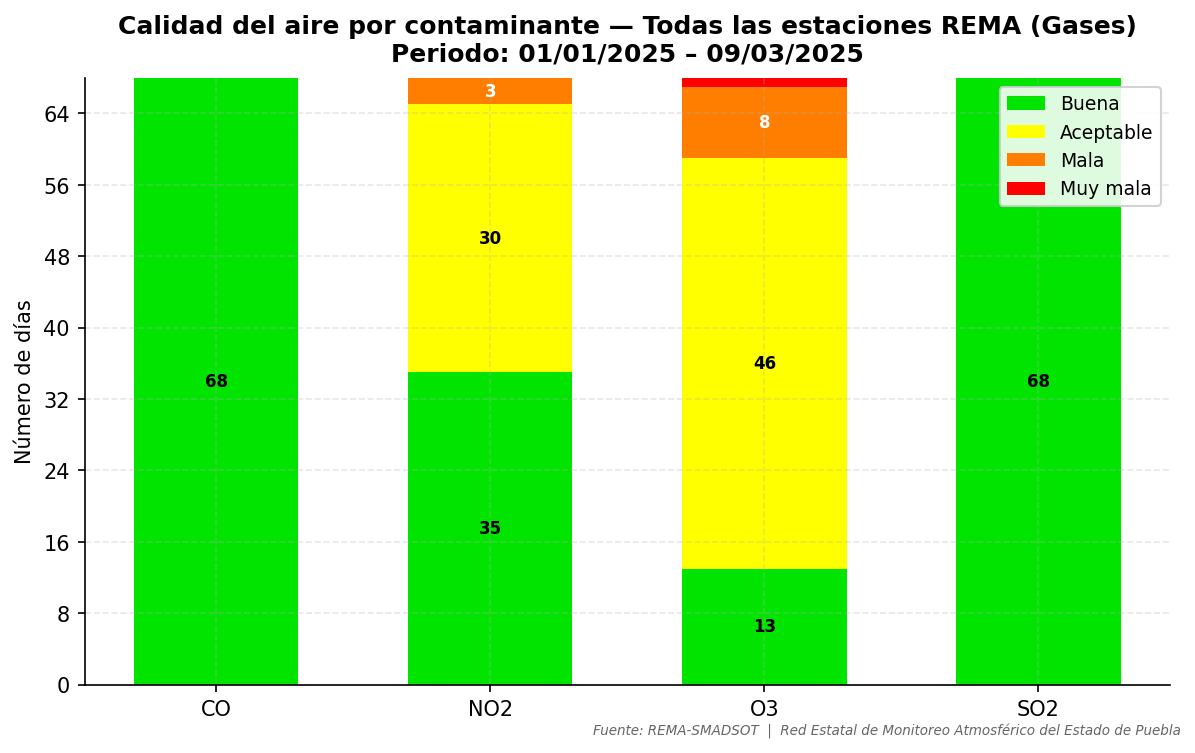
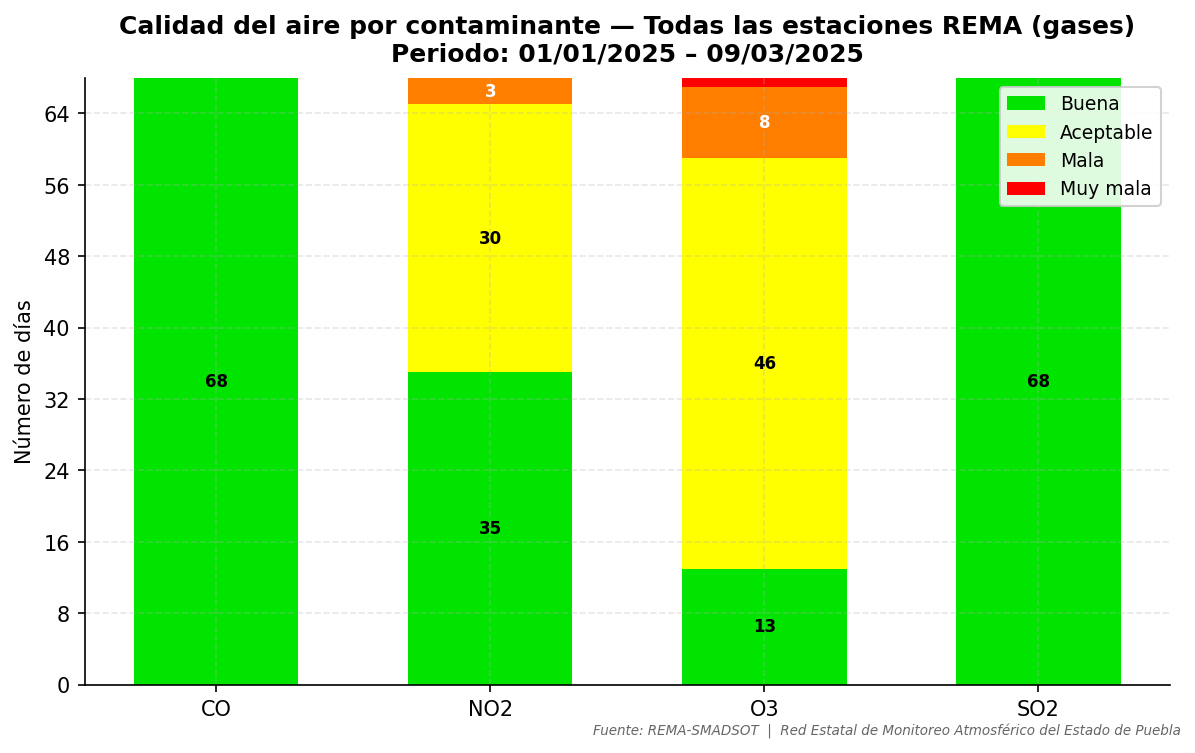
graficas 14 ~ 25

Changed region(s): [[0.5264, 0.0, 0.9598, 0.0611], [0.0929, 0.0305, 0.4954, 0.0611]]

diff --git a/graficas.py b/graficas.py
@@ -793,7 +793,249 @@ def g13_perfil_horario(df_ias_h, cont_list, ests, nombre_zona, periodo, tag, gru
     ax.grid(True, alpha=0.3)
     pie_fig(fig)
     guardar(fig, f"13_perfil_horario_{grupo}_{tag}")
-    
+
+# ============================================================================
+# GRÁFICAS ADICIONALES (G14 - G25)
+# ============================================================================
+
+# G14 — Evolución del ICA (línea temporal) - por zona y contaminante
+def g14_evolucion_ica_linea(df_ica, cont, ests, nombre_zona, periodo, tag):
+    cols = [f"ICA_{cont}_{e}" for e in ests if f"ICA_{cont}_{e}" in df_ica.columns]
+    if not cols:
+        return
+    fig, ax = plt.subplots(figsize=(14, 5))
+    for col in cols:
+        est = "_".join(col.split("_")[2:])
+        s = df_ica[col].dropna()
+        if s.empty:
+            continue
+        ax.plot(s.index, s, label=nombre(est), lw=0.9, alpha=0.85)
+    ax.axhline(100, color="red", ls="--", lw=1.2, label="ICA = 100")
+    ax.set_title(f"Evolución del ICA – {cont}\n{nombre_zona}  |  Periodo: {periodo[0]} – {periodo[1]}")
+    ax.set_ylabel("ICA (adimensional, NADF-009)")
+    ax.legend(loc="upper right", framealpha=0.88)
+    fig.autofmt_xdate()
+    pie_fig(fig)
+    guardar(fig, f"14_evolucion_ica_{cont}_{tag}")
+
+# G15 — Boxplot de concentraciones por estación
+def g15_boxplot_contaminante(df_ias_d, cont, ests, nombre_zona, periodo, tag):
+    datos = []
+    etiquetas = []
+    for est in ests:
+        cols = _buscar_cols_cantidad(df_ias_d, cont, [est])
+        if not cols:
+            continue
+        serie = df_ias_d[cols[0][0]].dropna()
+        if not serie.empty:
+            datos.append(serie.values)
+            etiquetas.append(nombre(est))
+    if len(datos) < 2:
+        return
+    fig, ax = plt.subplots(figsize=(10, max(5, len(etiquetas)*0.6)))
+    ax.boxplot(datos, labels=etiquetas, showfliers=False)
+    ax.set_title(f"Distribución de {cont} – {nombre_zona}\nPeriodo: {periodo[0]} – {periodo[1]}")
+    ax.set_ylabel("Concentración")
+    ax.grid(axis="y", linestyle="--", alpha=0.5)
+    pie_fig(fig)
+    guardar(fig, f"15_boxplot_{cont}_{tag}")
+
+
+# G16 — Comparativa de promedios entre zonas (barras) - por contaminante
+def g16_comparativa_promedios_zona(df_ias_d, cont, zonas_dict, nombre_zona, periodo, tag):
+    promedios = {}
+    for zona, ests in zonas_dict.items():
+        valores = []
+        for est in ests:
+            cols = _buscar_cols_cantidad(df_ias_d, cont, [est])
+            if cols:
+                valores.append(df_ias_d[cols[0][0]].mean())
+        if valores:
+            promedios[zona] = np.nanmean(valores)
+    if len(promedios) < 2:
+        return
+    fig, ax = plt.subplots(figsize=(8, 5))
+    ax.bar(promedios.keys(), promedios.values(), color=["#1f77b4", "#ff7f0e"])
+    ax.set_title(f"Concentración promedio de {cont} – Comparación de zonas\nPeriodo: {periodo[0]} – {periodo[1]}")
+    ax.set_ylabel("Concentración promedio")
+    pie_fig(fig)
+    guardar(fig, f"16_comparativa_promedios_zona_{cont}_{tag}")
+
+# G17 — Evolución mensual (barras) - por contaminante y zona
+def g17_evolucion_mensual(df_ias_d, cont, ests, nombre_zona, periodo, tag):
+    cols = _buscar_cols_cantidad(df_ias_d, cont, ests)
+    if not cols:
+        return
+    serie_prom = df_ias_d[[c for c, _ in cols]].mean(axis=1, skipna=True)
+    mensual = serie_prom.resample("ME").mean()
+    meses = mensual.index.strftime("%b")
+    fig, ax = plt.subplots(figsize=(10, 5))
+    ax.bar(meses, mensual.values, color="teal")
+    ax.set_title(f"Evolución mensual de {cont} – {nombre_zona}\nPeriodo: {periodo[0]} – {periodo[1]}")
+    ax.set_ylabel("Concentración promedio")
+    ax.grid(axis="y", linestyle="--", alpha=0.5)
+    pie_fig(fig)
+    guardar(fig, f"17_evolucion_mensual_{cont}_{tag}")
+
+# G18 — Días fuera de norma (barras verticales) - por zona
+def g18_dias_fuera_norma(df_ias_d, conts, ests, nombre_zona, periodo, tag):
+    resultado = {}
+    for cont in conts:
+        cols = _buscar_cols_cantidad(df_ias_d, cont, ests)
+        if not cols:
+            continue
+        serie_prom = df_ias_d[[c for c, _ in cols]].mean(axis=1, skipna=True)
+        lim, _, _ = LIMITES.get(cont, (None, "", ""))
+        if lim is None:
+            continue
+        excedencias = (serie_prom > lim).sum()
+        resultado[cont] = excedencias
+    if not resultado:
+        return
+    fig, ax = plt.subplots(figsize=(10, 5))
+    ax.bar(resultado.keys(), resultado.values(), color="coral")
+    ax.set_title(f"Días fuera de norma – {nombre_zona}\nPeriodo: {periodo[0]} – {periodo[1]}")
+    ax.set_ylabel("Número de días")
+    ax.grid(axis="y", linestyle="--", alpha=0.5)
+    pie_fig(fig)
+    guardar(fig, f"18_dias_fuera_norma_{tag}")
+
+# G19 — Días fuera de norma por estación (barras horizontales) - por contaminante
+def g19_dias_fuera_norma_estacion(df_ias_d, cont, ests, nombre_zona, periodo, tag):
+    lim, _, _ = LIMITES.get(cont, (None, "", ""))
+    if lim is None:
+        return
+    excedencias = {}
+    for est in ests:
+        cols = _buscar_cols_cantidad(df_ias_d, cont, [est])
+        if not cols:
+            continue
+        serie = df_ias_d[cols[0][0]]
+        excedencias[nombre(est)] = (serie > lim).sum()
+    if not excedencias:
+        return
+    fig, ax = plt.subplots(figsize=(10, max(4, len(excedencias)*0.5)))
+    ests_ord = sorted(excedencias.items(), key=lambda x: x[1], reverse=True)
+    nombres = [e[0] for e in ests_ord]
+    valores = [e[1] for e in ests_ord]
+    ax.barh(nombres, valores, color="darkred")
+    ax.set_title(f"Días fuera de norma ({cont}) – {nombre_zona}\nPeriodo: {periodo[0]} – {periodo[1]}")
+    ax.set_xlabel("Número de días (> límite NOM)")
+    pie_fig(fig)
+    guardar(fig, f"19_excedencias_estacion_{cont}_{tag}")
+
+# G21 — Porcentaje de días por categoría IAS (torta) - por zona
+def g21_porcentaje_categorias(df_ias_d, nombre_zona, periodo, tag):
+    if "Calidad del aire" not in df_ias_d.columns:
+        return
+    conteo = df_ias_d["Calidad del aire"].value_counts()
+    total = len(df_ias_d)
+    fig, ax = plt.subplots(figsize=(8, 8))
+    ax.pie(conteo, labels=conteo.index, autopct="%1.1f%%",
+           colors=[COLORES_CAT.get(c, "#cccccc") for c in conteo.index])
+    ax.set_title(f"Distribución de la calidad del aire – {nombre_zona}\nPeriodo: {periodo[0]} – {periodo[1]}")
+    pie_fig(fig)
+    guardar(fig, f"21_porcentaje_categorias_{tag}")
+
+# G22 — Comparación de estaciones (barras) - por contaminante
+def g22_comparacion_estaciones(df_ias_d, cont, ests, nombre_zona, periodo, tag):
+    promedios = {}
+    for est in ests:
+        cols = _buscar_cols_cantidad(df_ias_d, cont, [est])
+        if cols:
+            promedios[nombre(est)] = df_ias_d[cols[0][0]].mean()
+    if not promedios:
+        return
+    fig, ax = plt.subplots(figsize=(12, max(5, len(promedios)*0.5)))
+    nombres = list(promedios.keys())
+    valores = list(promedios.values())
+    lim, _, _ = LIMITES.get(cont, (None, "", ""))
+    colores = ["#2ecc71" if (lim is None or v <= lim) else "#e74c3c" for v in valores]
+    ax.bar(nombres, valores, color=colores)
+    ax.set_title(f"Concentración promedio de {cont} por estación – {nombre_zona}\nPeriodo: {periodo[0]} – {periodo[1]}")
+    ax.set_ylabel("Concentración promedio")
+    ax.tick_params(axis="x", rotation=45, labelsize=9)
+    pie_fig(fig)
+    guardar(fig, f"22_comparacion_estaciones_{cont}_{tag}")
+
+# G23 — Calidad del aire por día de semana (barras apiladas) - por zona
+def g23_calidad_dia_semana(df_ias_d, nombre_zona, periodo, tag):
+    if "Calidad del aire" not in df_ias_d.columns:
+        return
+    df_dia = df_ias_d.copy()
+    df_dia["Día semana"] = df_dia.index.dayofweek
+    mapa_dias = {0: "Lun", 1: "Mar", 2: "Mié", 3: "Jue", 4: "Vie", 5: "Sáb", 6: "Dom"}
+    df_dia["Día"] = df_dia["Día semana"].map(mapa_dias)
+    calidad_por_dia = df_dia.groupby("Día")["Calidad del aire"].value_counts().unstack(fill_value=0)
+    # Reordenar columnas según CATEGORIAS
+    calidad_por_dia = calidad_por_dia.reindex(columns=CATEGORIAS, fill_value=0)
+    fig, ax = plt.subplots(figsize=(12, 6))
+    calidad_por_dia.plot(kind="bar", ax=ax, color=[COLORES_CAT.get(c, "#ccc") for c in CATEGORIAS], width=0.8)
+    ax.set_title(f"Calidad del aire por día de la semana – {nombre_zona}\nPeriodo: {periodo[0]} – {periodo[1]}")
+    ax.set_ylabel("Número de días")
+    ax.legend(title="Categoría", bbox_to_anchor=(1.05, 1))
+    ax.set_xlabel("")
+    pie_fig(fig)
+    guardar(fig, f"23_calidad_dia_semana_{tag}")
+
+# G24 — Diagrama de dispersión O3 vs NO2 - por zona (promedio de la zona)
+def g24_dispersion_o3_no2(df_ias_d, ests, nombre_zona, periodo, tag):
+    cols_o3 = _buscar_cols_cantidad(df_ias_d, "O3", ests)
+    cols_no2 = _buscar_cols_cantidad(df_ias_d, "NO2", ests)
+    if not cols_o3 or not cols_no2:
+        return
+    df_comb = pd.DataFrame({
+        "O3": df_ias_d[[c for c, _ in cols_o3]].mean(axis=1, skipna=True),
+        "NO2": df_ias_d[[c for c, _ in cols_no2]].mean(axis=1, skipna=True)
+    }).dropna()
+    if df_comb.empty:
+        return
+    fig, ax = plt.subplots(figsize=(8, 8))
+    ax.scatter(df_comb["NO2"], df_comb["O3"], alpha=0.4, color="teal", s=15)
+    ax.set_xlabel("NO₂ (ppm)")
+    ax.set_ylabel("O₃ (ppm)")
+    ax.set_title(f"Relación O₃ vs NO₂ – {nombre_zona}\nPeriodo: {periodo[0]} – {periodo[1]}")
+    ax.grid(alpha=0.3)
+    pie_fig(fig)
+    guardar(fig, f"24_dispersion_o3_no2_{tag}")
+
+# G25 — Calendario de excedencias (mosaico) - por contaminante y zona
+def g25_calendario_excedencias(df_ias_d, cont, ests, nombre_zona, periodo, anio, tag):
+    if cont not in LIMITES:
+        return
+    cols = _buscar_cols_cantidad(df_ias_d, cont, ests)
+    if not cols:
+        return
+    serie_prom = df_ias_d[[c for c, _ in cols]].mean(axis=1, skipna=True)
+    lim, _, _ = LIMITES[cont]
+    excede = (serie_prom > lim).astype(int)
+    fecha_min = excede.index.min()
+    fecha_max = excede.index.max()
+    fecha_min = fecha_min - pd.Timedelta(days=fecha_min.weekday())
+    fecha_max = fecha_max + pd.Timedelta(days=6 - fecha_max.weekday())
+    rango = pd.date_range(fecha_min, fecha_max, freq="D")
+    semanas = len(rango) // 7
+    matriz = np.full((semanas, 7), np.nan)
+    for i, fecha in enumerate(rango):
+        semana = i // 7
+        dia = i % 7
+        if fecha in excede.index:
+            matriz[semana, dia] = excede.loc[fecha]
+    fig, ax = plt.subplots(figsize=(12, max(4, semanas*0.3)))
+    cmap = ListedColormap(["#d4e6f1", "#e74c3c"])
+    ax.imshow(matriz, cmap=cmap, aspect="auto", vmin=0, vmax=1)
+    # Etiquetas de día
+    for semana in range(semanas):
+        for dia in range(7):
+            idx = semana*7 + dia
+            if idx < len(rango):
+                fecha = rango[idx]
+                ax.text(dia, semana, fecha.day, ha="center", va="center", fontsize=7)
+    ax.set_xticks([])
+    ax.set_yticks([])
+    ax.set_title(f"Excedencias ({cont}) – {nombre_zona}\nPeriodo: {periodo[0]} – {periodo[1]}\n(Valor > {lim} {UNIDADES[cont]} – en rojo)", fontsize=10)
+    pie_fig(fig)
+    guardar(fig, f"25_calendario_excedencias_{cont}_{tag}") 
 # ============================================================================
 # HELPERS — buscar columnas independiente del formato
 # ============================================================================
@@ -842,9 +1084,10 @@ def generar_todas():
 
     # ── Gráficas globales (una sola vez) ─────────────────────────────────────
     print("\n[GLOBAL]")
-    g6_calidad_global_mensual(df_ias_d, periodo, anio); total += 1
+    g6_calidad_global_mensual(df_ias_d, periodo, anio)
+    total += 1
 
-    # ── Por zona y contaminante ───────────────────────────────────────────────
+    # ── Por zona ────────────────────────────────────────────────────────────
     for tag, (ests_zona, nombre_zona) in ZONAS.items():
         ests_ok = [e for e in ests_zona if e in estaciones]
         if not ests_ok:
@@ -854,45 +1097,61 @@ def generar_todas():
         print(f"Zona: {nombre_zona}")
         print(f"{'─'*60}")
 
-        # Resúmenes por grupo (partículas y gases separados)
-        for grupo, conts_grupo in [("Partículas", [c for c in contaminantes if c in PARTICULAS]),
-                                    ("Gases",      [c for c in contaminantes if c in GASES])]:
+        # 1) Resúmenes de calidad del aire por grupo (partículas y gases)
+        for grupo, conts_grupo in [("particulas", [c for c in contaminantes if c in PARTICULAS]),
+                                    ("gases", [c for c in contaminantes if c in GASES])]:
             if conts_grupo:
                 g5_resumen_zona(df_ias_d, conts_grupo, ests_ok,
                                 nombre_zona, periodo, tag, grupo)
                 total += 1
 
+        # 2) Gráficas por contaminante
         for cont in contaminantes:
             if cont not in LIMITES:
                 continue
             print(f"\n  [{cont}]")
 
+            # ICA horario y diario
             g1_ica_horario(df_ica, cont, ests_ok, nombre_zona, periodo, f"{tag}_{cont}")
             total += 1
-
             g2_ica_max_diario(df_ica, cont, ests_ok, nombre_zona, periodo, f"{tag}_{cont}")
             total += 1
 
+            # Concentraciones diarias
             g3_concentracion_diaria(df_ias_d, cont, ests_ok, nombre_zona,
                                     periodo, f"{tag}_{cont}", fmt_d)
             total += 1
 
+            # Días por categoría por estación
             g4_dias_categoria_estacion(df_ias_d, cont, ests_ok, nombre_zona,
                                        periodo, f"{tag}_{cont}")
             total += 1
 
+            # Mosaico días fuera de norma (categoría)
             g7_mosaico_fuera_norma(df_ias_d, cont, ests_ok, nombre_zona,
                                    periodo, anio, f"{tag}_{cont}")
             total += 1
 
+            # Promedio del periodo por estación
             g8_promedios_periodo(df_ias_d, cont, ests_ok, nombre_zona,
                                  periodo, f"{tag}_{cont}")
             total += 1
 
-        # Después del for cont in contaminantes ...
-        # (todavía dentro del for tag, (ests_zona, nombre_zona))
+            # Gráficas adicionales por contaminante (G14, G15, G16?, G17, G19, G22, G25)
+            g14_evolucion_ica_linea(df_ica, cont, ests_ok, nombre_zona, periodo, f"{tag}_{cont}")
+            total += 1
+            g15_boxplot_contaminante(df_ias_d, cont, ests_ok, nombre_zona, periodo, f"{tag}_{cont}")
+            total += 1
+            g17_evolucion_mensual(df_ias_d, cont, ests_ok, nombre_zona, periodo, f"{tag}_{cont}")
+            total += 1
+            g19_dias_fuera_norma_estacion(df_ias_d, cont, ests_ok, nombre_zona, periodo, f"{tag}_{cont}")
+            total += 1
+            g22_comparacion_estaciones(df_ias_d, cont, ests_ok, nombre_zona, periodo, f"{tag}_{cont}")
+            total += 1
+            g25_calendario_excedencias(df_ias_d, cont, ests_ok, nombre_zona, periodo, anio, f"{tag}_{cont}")
+            total += 1
 
-        # Gráficas multi‑contaminante separadas por grupo (partículas / gases)
+        # 3) Gráficas multi‑contaminante (separadas por partículas y gases)
         particulas = [c for c in contaminantes if c in PARTICULAS]
         gases = [c for c in contaminantes if c in GASES]
 
@@ -918,10 +1177,21 @@ def generar_todas():
             g13_perfil_horario(df_ias_h, gases, ests_ok, nombre_zona, periodo, tag, "gases")
             total += 1
 
+        # 4) Gráficas globales de la zona (independientes del contaminante)
+        g16_comparativa_promedios_zona(df_ias_d, cont, ZONAS, nombre_zona, periodo, tag)
+        total += 1
+        g18_dias_fuera_norma(df_ias_d, contaminantes, ests_ok, nombre_zona, periodo, tag)
+        total += 1
+        g21_porcentaje_categorias(df_ias_d, nombre_zona, periodo, tag)
+        total += 1
+        g23_calidad_dia_semana(df_ias_d, nombre_zona, periodo, tag)
+        total += 1
+        g24_dispersion_o3_no2(df_ias_d, ests_ok, nombre_zona, periodo, tag)
+        total += 1
+
     print(f"\n{'='*60}")
     print(f"✓  {total} gráficas guardadas en '{DIR_SALIDA}/'")
     print(f"{'='*60}")
-
 
 if __name__ == "__main__":
     generar_todas()
